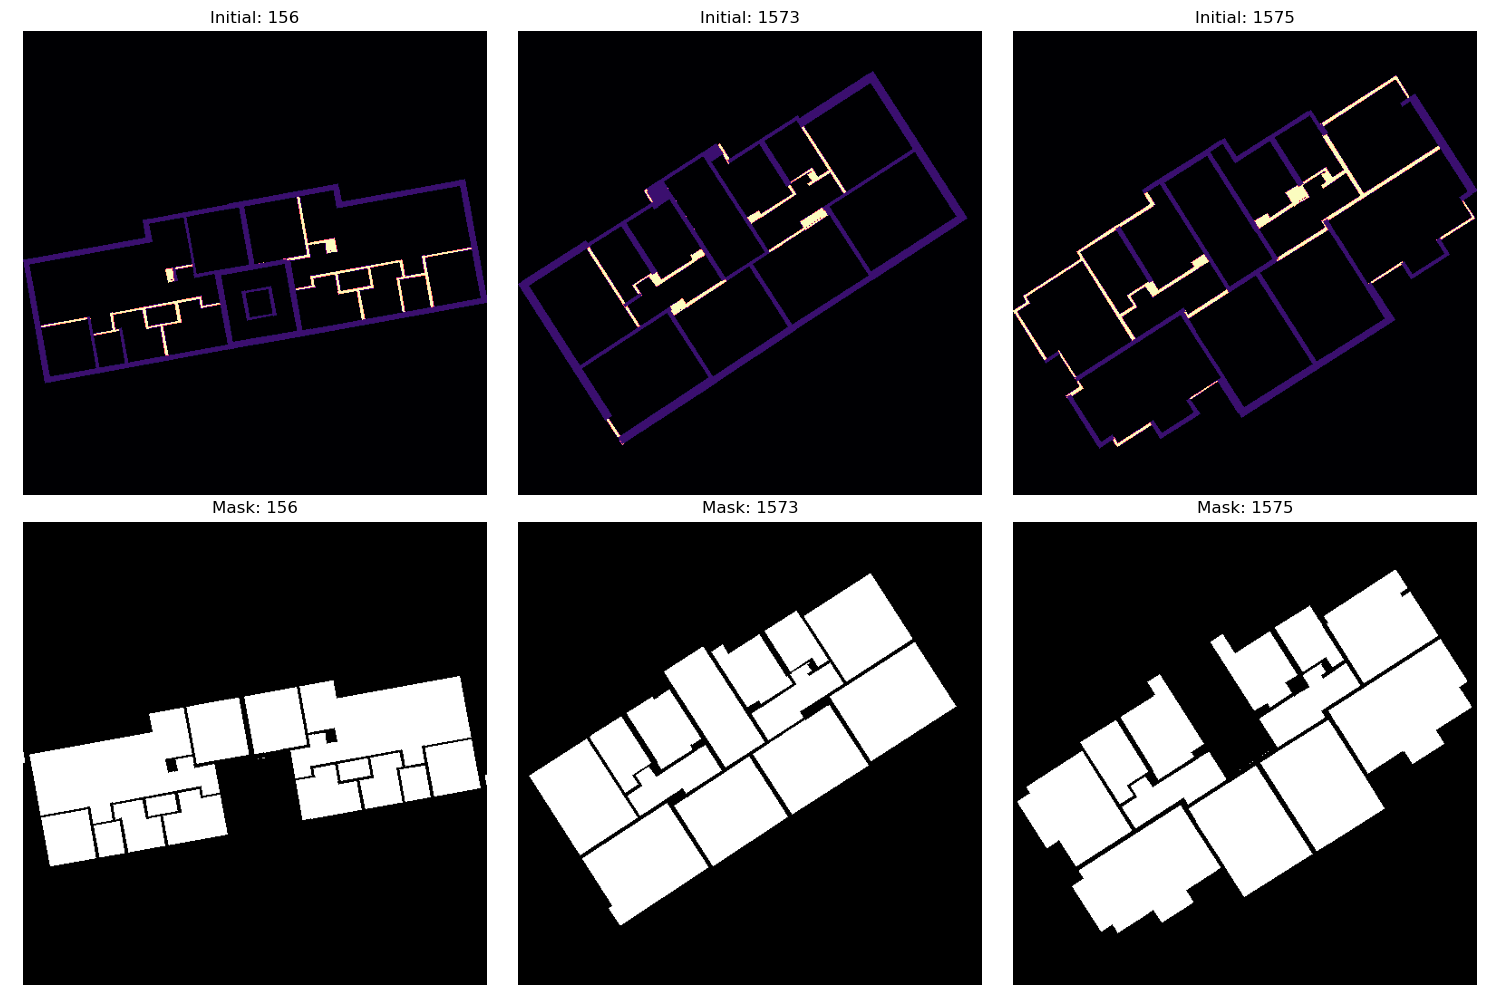
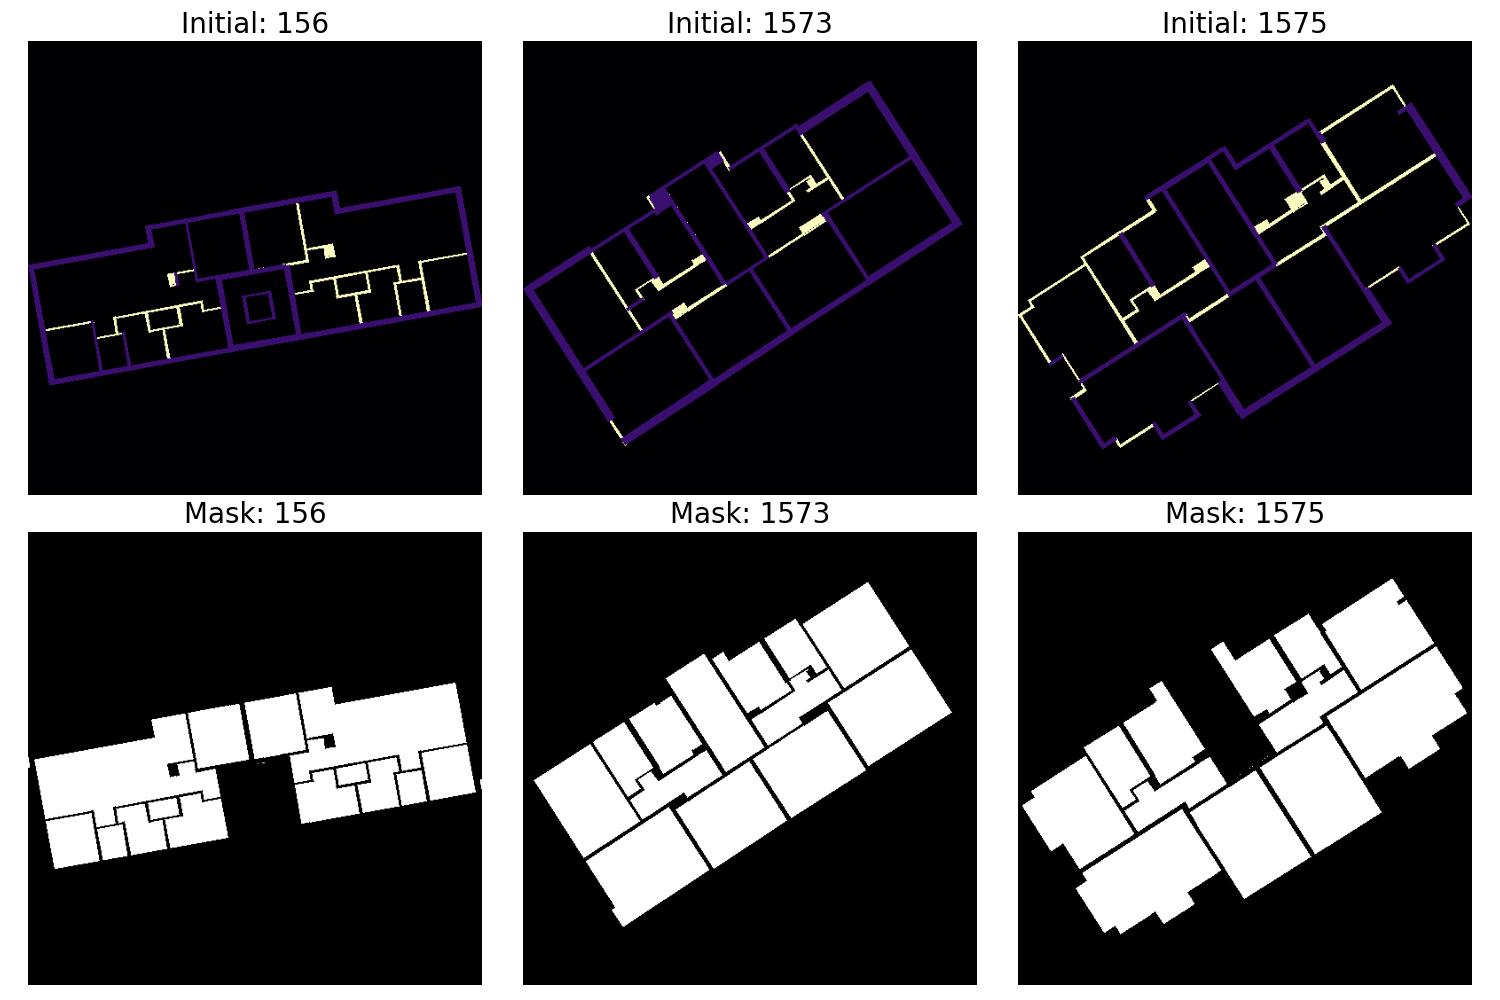
Nikolaj branch

diff --git a/src/ex3.py b/src/ex3.py
@@ -1,0 +1,40 @@
+from provided_script import *
+import random
+import matplotlib.pyplot as plt
+
+if __name__=='__main__':
+    #N = int(sys.argv[1])
+    N=3
+
+    LOAD_DIR = "/dtu/projects/02613_2025/data/modified_swiss_dwellings/"
+    with open(join(LOAD_DIR, "building_ids.txt"), "r") as f:
+        building_ids = f.read().splitlines()
+
+    # Random sample of size N
+    random.seed(42)
+    building_ids = random.sample(building_ids, N)
+
+    all_u0 = np.empty((N, 514, 514))
+    all_interior_mask = np.empty((N, 512, 512), dtype="bool")
+    for i, bid in enumerate(building_ids):
+        u0, interior_mask = load_data(LOAD_DIR, bid)
+        all_u0[i] = u0
+        all_interior_mask[i] = interior_mask
+
+    MAX_ITER = 20_000
+    ABS_TOL = 1e-4
+
+    all_u = np.empty_like(all_u0)
+    for i, (u0, interior_mask) in enumerate(zip(all_u0, all_interior_mask)):
+        u = jacobi(u0, interior_mask, MAX_ITER, ABS_TOL)
+        all_u[i] = u
+
+    fig, axs = plt.subplots(1, N, figsize=(12, 5))
+
+    for i, building_id in enumerate(building_ids):
+        axs[i].imshow(all_u[i], cmap="magma")
+        axs[i].set_title(f"Simulation result for building {building_id}")
+        axs[i].axis("off")
+
+    plt.tight_layout()
+    plt.savefig("output/plots/sim_result_demo.png")

diff --git a/src/ex5.py b/src/ex5.py
@@ -1,0 +1,38 @@
+from provided_script import *
+import random
+import matplotlib.pyplot as plt
+from multiprocessing import Pool
+from functools import partial
+
+
+if __name__=='__main__':
+    N = int(sys.argv[1])
+
+    LOAD_DIR = "/dtu/projects/02613_2025/data/modified_swiss_dwellings/"
+    with open(join(LOAD_DIR, "building_ids.txt"), "r") as f:
+        building_ids = f.read().splitlines()
+
+    # Random sample of size N
+    random.seed(42)
+    building_ids = random.sample(building_ids, N)
+
+    buildings = []
+    for i, bid in enumerate(building_ids):
+        u0, interior_mask = load_data(LOAD_DIR, bid)
+        buildings.append((u0, interior_mask))
+
+    MAX_ITER = 20_000
+    ABS_TOL = 1e-4
+
+    with Pool() as pool:
+        all_u = pool.starmap(partial(jacobi, max_iter=MAX_ITER, atol=ABS_TOL), buildings)
+
+    fig, axs = plt.subplots(1, 4, figsize=(12, 5))
+
+    for i, building_id in enumerate(building_ids[:4]):
+        axs[i].imshow(all_u[i], cmap="magma")
+        axs[i].set_title(f"Simulation result for building {building_id}")
+        axs[i].axis("off")
+
+    plt.tight_layout()
+    plt.savefig("output/plots/sim_result_demo.png")

diff --git a/src/demo.py b/src/demo.py
@@ -15,11 +15,11 @@ for i, building_id in enumerate(ids):
     interior = np.load(interior_path)
 
     axs[0, i].imshow(domain, cmap="magma")
-    axs[0, i].set_title(f"Initial: {building_id}")
+    axs[0, i].set_title(f"Initial: {building_id}", fontsize=20)
     axs[0, i].axis("off")
 
     axs[1, i].imshow(interior, cmap="gray")
-    axs[1, i].set_title(f"Mask: {building_id}")
+    axs[1, i].set_title(f"Mask: {building_id}", fontsize=20)
     axs[1, i].axis("off")
 
 plt.tight_layout()

diff --git a/src/provided_script.py b/src/provided_script.py
@@ -1,6 +1,7 @@
 from os.path import join
 import sys
 import numpy as np
+from line_profiler import profile
 
 
 def load_data(load_dir, bid):
@@ -10,8 +11,8 @@ def load_data(load_dir, bid):
     interior_mask = np.load(join(load_dir, f"{bid}_interior.npy"))
     return u, interior_mask
 
-
-def jacobi(u, interior_mask, max_iter, atol=1e-6):
+@profile
+def jacobi(u, interior_mask, max_iter=20_000, atol=1e-6):
     u = np.copy(u)
 
     for i in range(max_iter):
